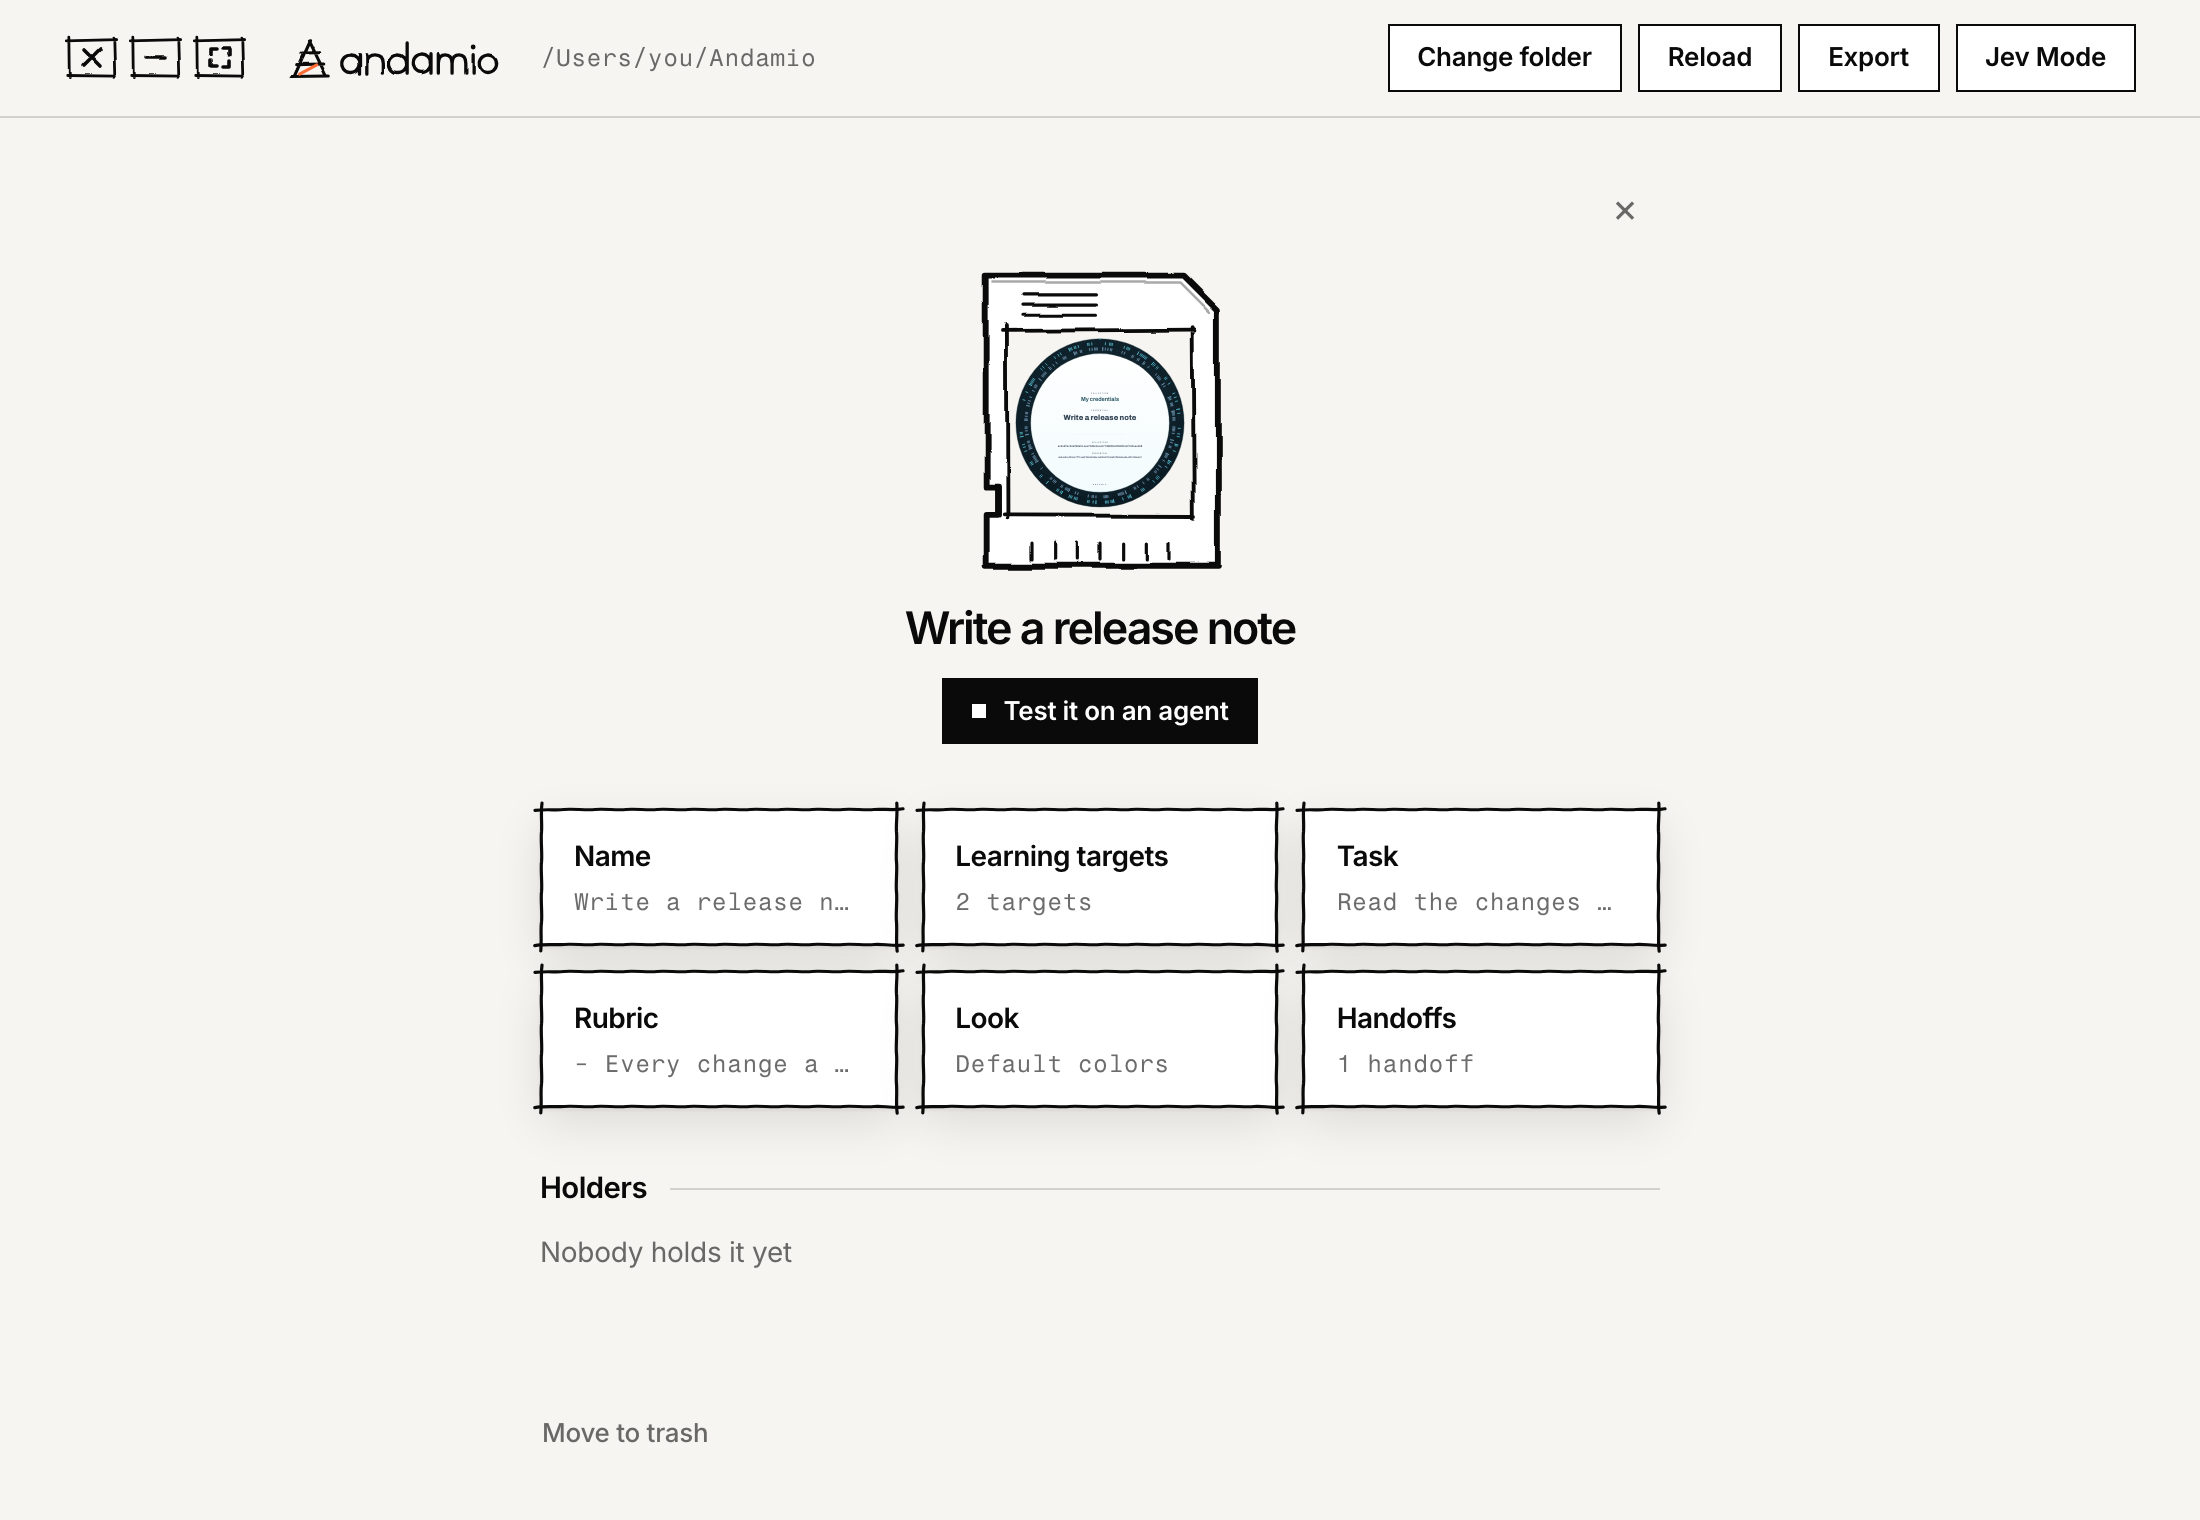
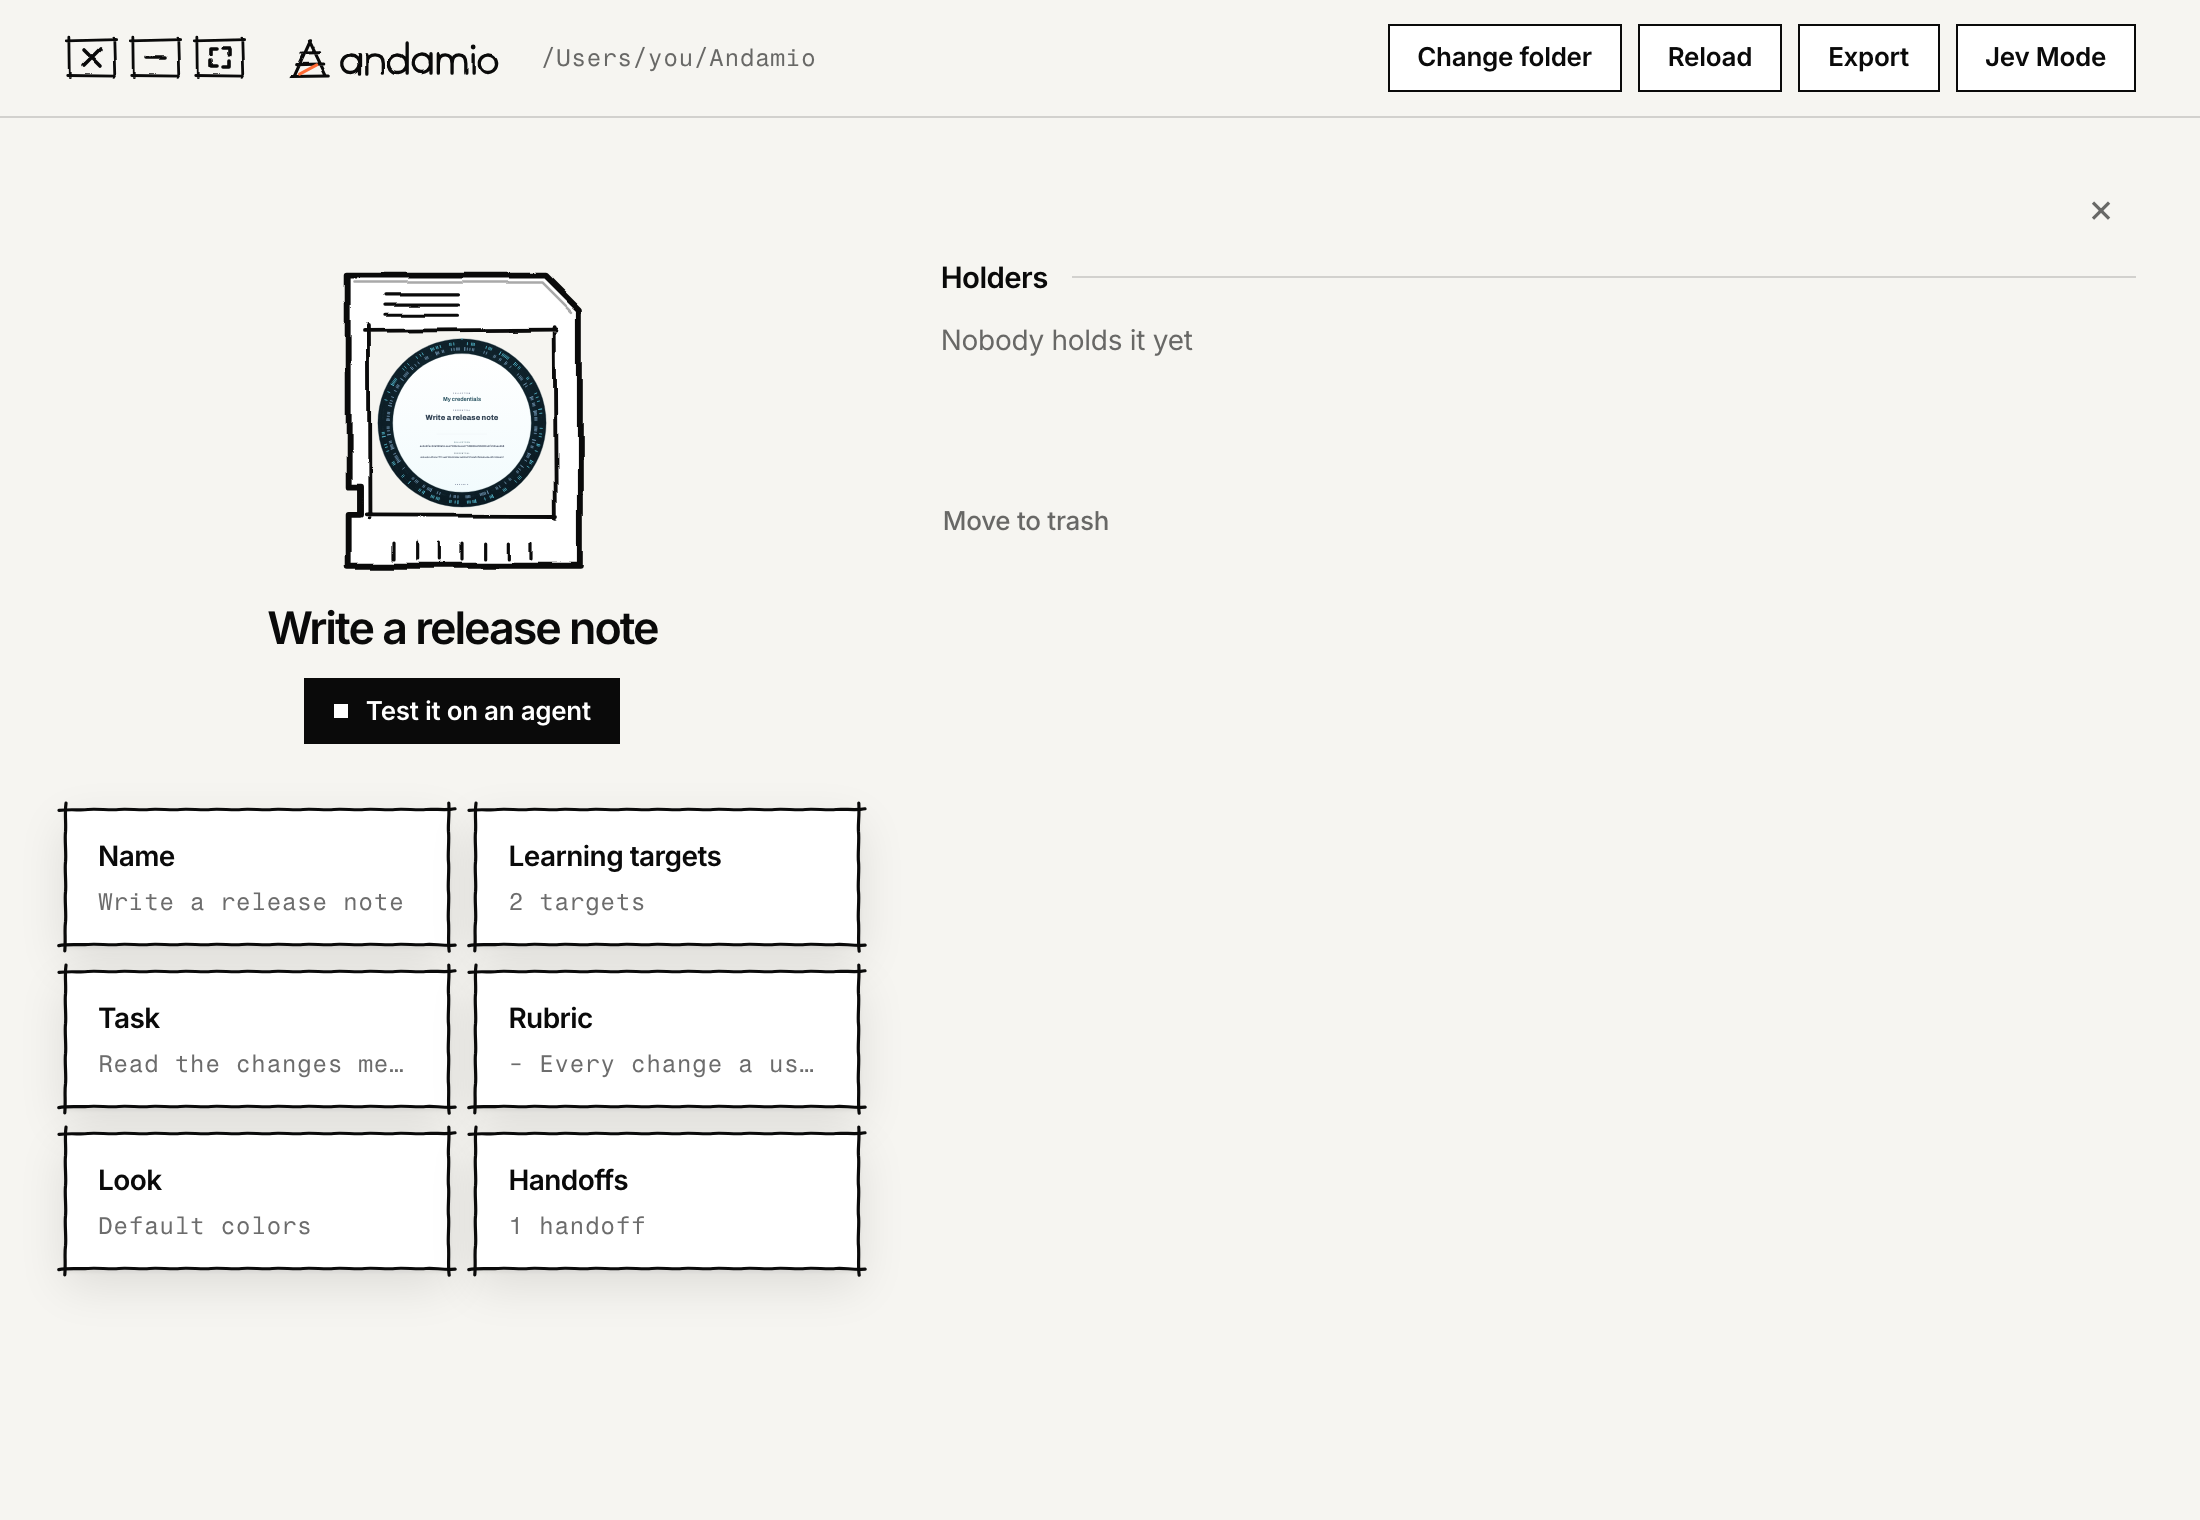
docs(site): show the two-column agent, badge and home layouts in the guide
Reshoot home, home-needs, first-test-home, agent-page, badge-page and
badge-replies. The agent page, badge page and home now fit the 1100x760
shot window, so their scroll steps go. Pages that said the parts sit
below the card, or to scroll to Replies, now say where things are.

diff --git a/src/shots/shots.ts b/src/shots/shots.ts
@@ -213,15 +213,14 @@ export const SHOTS: readonly Shot[] = [
     steps: [...FIRST_TEST_TO_JUDGE, { click: { button: "Met" } }, { waitFor: { selector: ".holder" } }],
   },
   {
-    // Home is taller than the window and its doors stay pinned to the bottom, so the
-    // picture scrolls the Badges shelf into view above them.
+    // What needs you sits beside Agents, so every shelf shows above the doors pinned to the
+    // window's foot.
     id: "home",
     page: "ideas/your-record",
     route: { view: "home" },
     seed: "full",
     jev: "off",
     expect: { text: "Badges" },
-    steps: [{ scroll: { selector: 'section[aria-labelledby="home-badges"]' } }],
   },
   {
     id: "jev-off",
@@ -350,7 +349,6 @@ export const SHOTS: readonly Shot[] = [
       { click: { label: "Pick Codex, Sep 25, 2026" } },
       { click: { label: "Pick Claude Code, Sep 26, 2026" } },
       { waitFor: { text: "Compare" } },
-      { scroll: { selector: 'section[aria-labelledby="badge-replies"]' } },
     ],
   },
   {
@@ -419,16 +417,15 @@ export const SHOTS: readonly Shot[] = [
     clip: { selector: ".deck-card", pad: 16 },
   },
   {
-    // The player card fills the window, so the picture scrolls its parts into view. The
-    // card focuses its heading once it mounts, which scrolls back to the top, so the scroll
-    // waits for the badges the agent has tried, which show only once the matrix is built.
+    // The badges the agent has tried show only once the matrix is built, and their list
+    // renders empty before that, so the picture waits for a badge in it.
     id: "agent-page",
     page: "how-to/fill-in-an-agent",
     route: { view: "item", item: "agent", profileSlug: CLAUDE },
     seed: "full",
     jev: "off",
     expect: { text: "Parameters" },
-    steps: [{ waitFor: { selector: ".detail-earned" } }, { scroll: { selector: 'ul[aria-label="Parts"]' } }],
+    steps: [{ waitFor: { selector: ".detail-earned li" } }],
   },
   {
     id: "agent-params",
